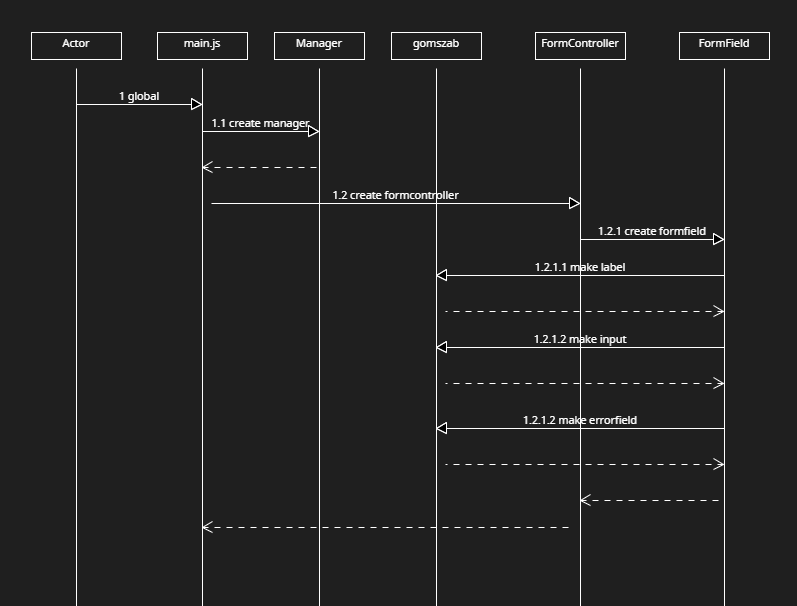
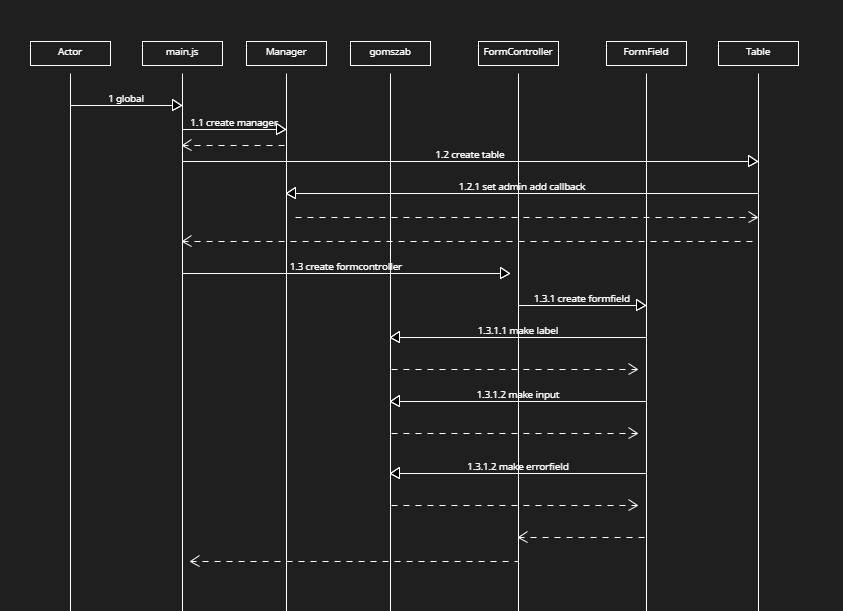
add table to admin

diff --git a/app/admin/table.js b/app/admin/table.js
@@ -1,0 +1,21 @@
+class Table{
+    #manager;
+
+    constructor(manager){
+        this.#manager = manager;
+        const tbody = Gomszab.makeTableWithHeader(['Diák neve', 'Diák átlaga', 'Diák kommentár', 'Diák rossz?']);
+        this.#manager.setAddAdminCallback(this.#adminCallback(tbody))
+    }
+
+    #adminCallback(tbodyElement){
+       return (student) => {
+            const tr = document.createElement('tr');
+            tbodyElement.appendChild(tr);
+            Gomszab.makeCellToRow(tr, student.name);
+            Gomszab.makeCellToRow(tr, student.average);
+            Gomszab.makeCellToRow(tr, student.comment);
+            const bad = student.bad ? 'igen': 'nem';
+            Gomszab.makeCellToRow(tr, bad);
+        }
+    }
+}

diff --git a/app/admin/index.html b/app/admin/index.html
@@ -4,11 +4,18 @@
     <meta charset="UTF-8">
     <meta name="viewport" content="width=device-width, initial-scale=1.0">
     <title>Admin page</title>
+    <style>
+        table, tr, td, th {
+            border: 1px solid black;
+            border-collapse: collapse;
+        }
+    </style>
 </head>
 <body>
     <script src="../shared/gomszab.js"></script>
     <script src="../shared/student.js"></script>
     <script src="../shared/manager.js"></script>
+    <script src="table.js"></script>
     <script src="form.js"></script>
     <script src="main.js"></script>
 </body>

diff --git a/app/shared/manager.js b/app/shared/manager.js
@@ -2,9 +2,11 @@ class Manager{
     #array;
     #selectCallback;
     #addCallback;
+    #addAdminCallback;
 
     constructor(){
         this.#array = [];
+        this.#addAdminCallback = () => {}
     }
 
     setAddCallback(callback){
@@ -15,8 +17,13 @@ class Manager{
         this.#selectCallback=callback;
     }
 
+    setAddAdminCallback(callback){
+        this.#addAdminCallback = callback;
+    }
+
     add(student){
         this.#array.push(student);   
+        this.#addAdminCallback(student);
     }
 
     select(student){

diff --git a/app/admin/main.js b/app/admin/main.js
@@ -6,4 +6,5 @@ const formFieldConfiguration = [
 ]
 
 const manager = new Manager();
+const table = new Table(manager);
 const formController = new FormController(manager, formFieldConfiguration);
